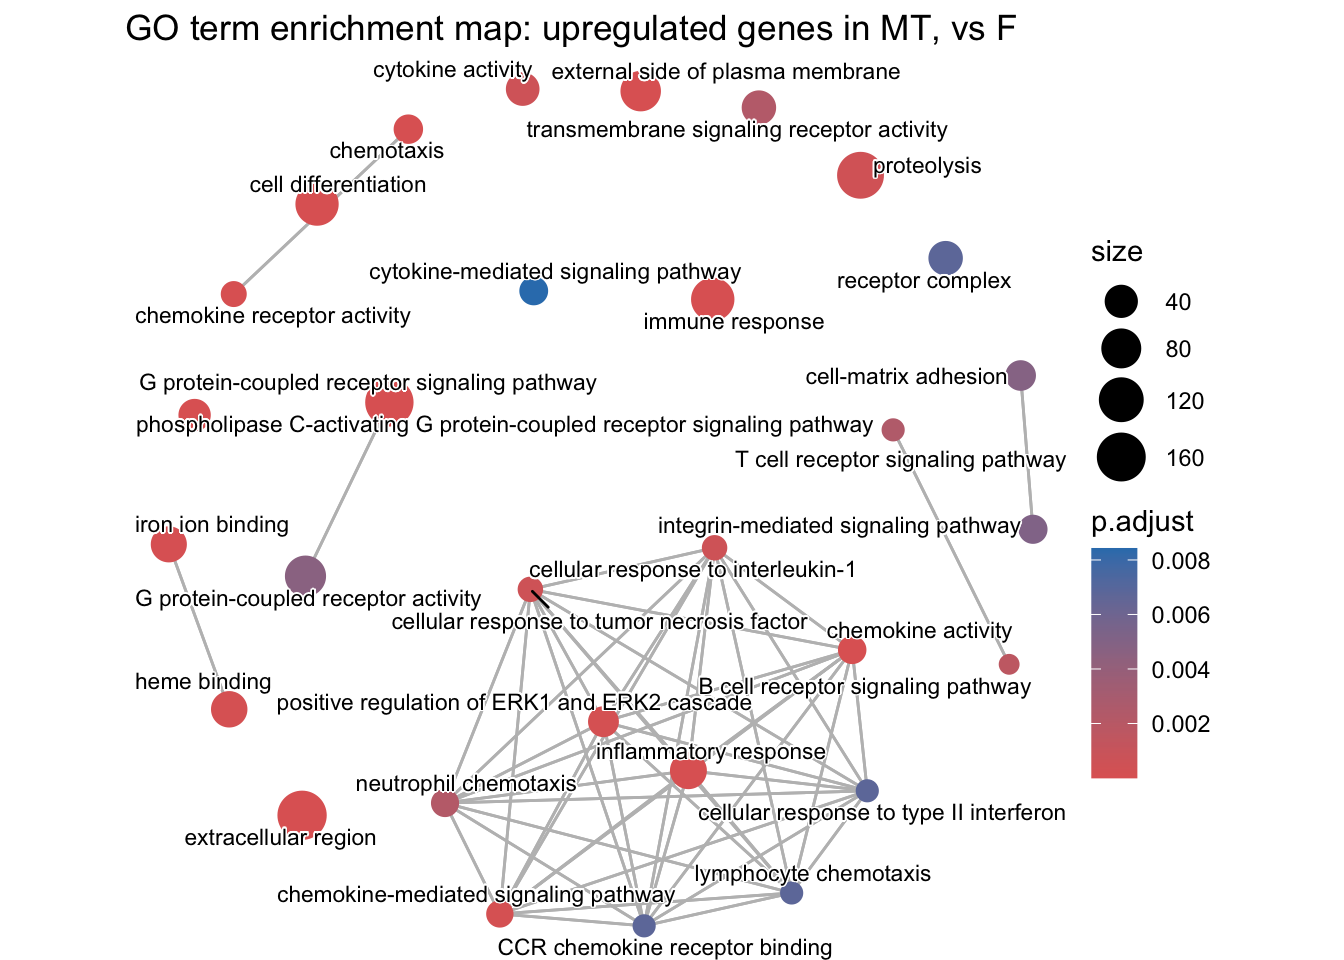
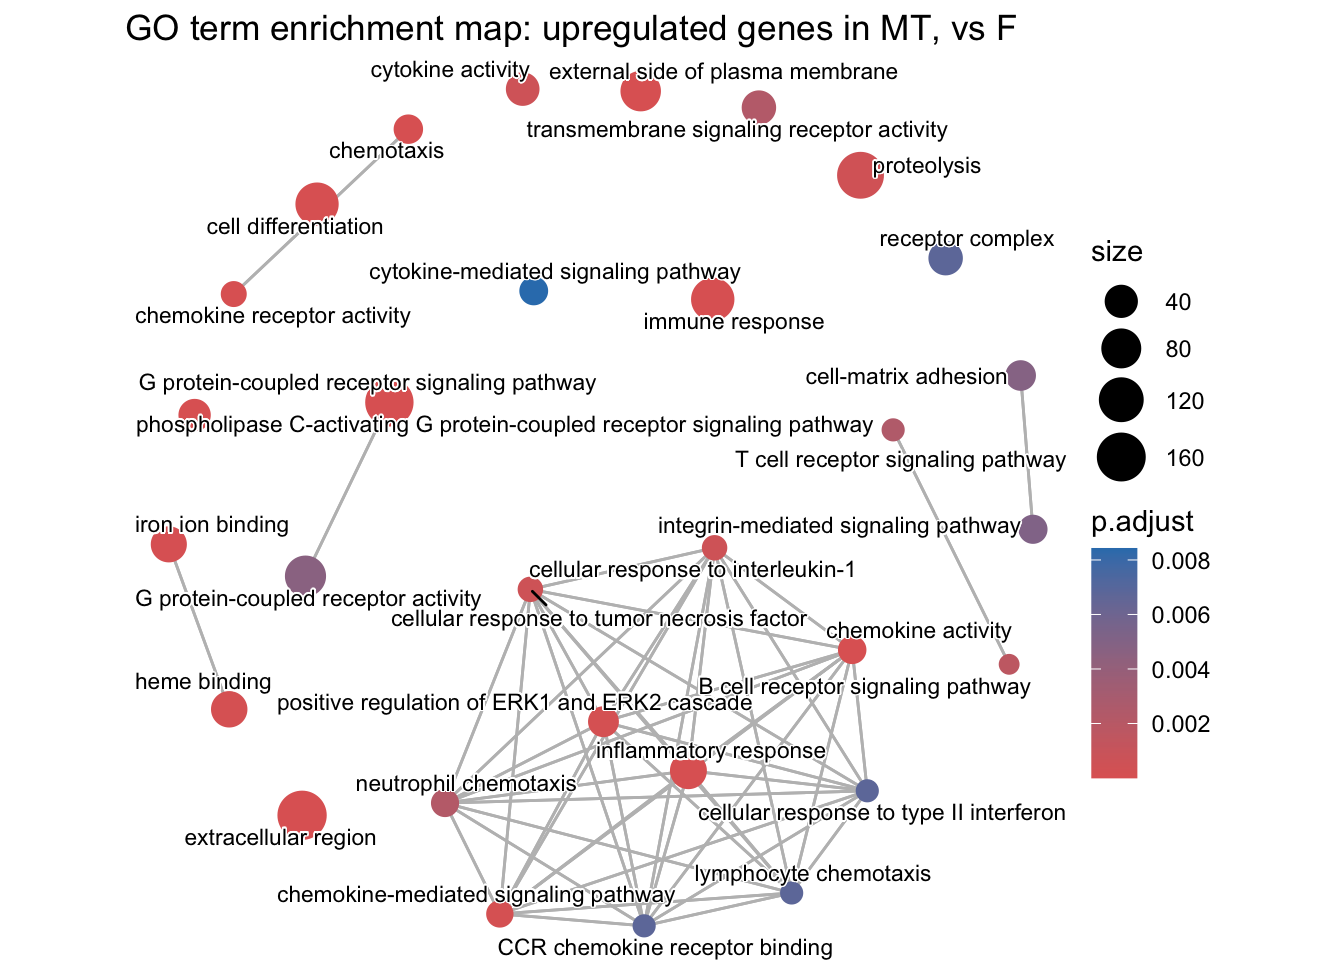
added org package link, minor wording

diff --git a/docs/mini-series-gene-ontology.html b/docs/mini-series-gene-ontology.html
@@ -316,14 +316,14 @@ pre > code.sourceCode > span > a:first-child::before { text-decoration: underlin
 
 <section id="mini-series-gene-ontology-analysis-for-non-model-organisms" class="level1">
 <h1>Mini series: Gene ontology analysis for non-model organisms</h1>
-<p>In this workshop, we will cover how to perform gene ontology (GO) analysis for non-model organisms. Specifically, we will run through GOseq analysis in R, focusing on how to perform this for organisms that <strong>are not</strong> in the supported organisms list in <code>goseq()</code> and don’t have an annotation package in Bioconductor.</p>
-<p>This is an extension on our RNA-seq workshop, which covers GOseq analysis using the supported organism <em>Saccharomyces cerevisiae</em> <a href="https://genomicsaotearoa.github.io/RNA-seq-data-analysis-workflow/episode_5.html">(RNAseq workshop link here)</a>.</p>
+<p>In this workshop, we will cover how to perform gene ontology (GO) analysis for non-model organisms. Specifically, we will run through GOseq analysis in R, focusing on how to perform this for organisms that <strong>are not</strong> in the supported organisms list in <code>goseq()</code> and don’t have an annotation package in Bioconductor. You can check <a href="https://bioconductor.org/packages/release/BiocViews.html#___OrgDb">if your research organism is listed here.</a> If not, this workshop might be for you.</p>
+<p>This is an extension on our <a href="https://genomicsaotearoa.github.io/RNA-seq-data-analysis-workflow/">RNA-seq Data Analysis workshop</a>, which covers GOseq analysis using the supported organism <em>Saccharomyces cerevisiae</em> in the lesson on Functional analysis.</p>
 <section id="prerequisites" class="level2">
 <h2 class="anchored" data-anchor-id="prerequisites">Prerequisites</h2>
 <ul>
-<li>Have attended our <a href="https://genomicsaotearoa.github.io/Introduction-to-R/">Introduction to R</a> workshop or have equivalent experience.<br>
+<li>Have attended our <a href="https://genomicsaotearoa.github.io/BioinformaticsTrainingProgramme/portfolio.html#intro-r">Introduction to R</a> workshop or have equivalent experience.<br>
 </li>
-<li>Have attended our <a href="https://genomicsaotearoa.github.io/RNA-seq-data-analysis-workflow/">RNA-seq Data Analysis</a> workshop, or have previous experience with an RNA-seq workflow.</li>
+<li>Have attended our <a href="https://genomicsaotearoa.github.io/BioinformaticsTrainingProgramme/portfolio.html#rnaseq">RNA-seq Data Analysis</a> workshop, or have previous experience with an RNA-seq workflow.</li>
 </ul>
 <section id="set-up" class="level3">
 <h3 class="anchored" data-anchor-id="set-up">Set-up</h3>
@@ -588,7 +588,7 @@ How do I get gene ontologies?
 <section id="gene-lengths" class="level4">
 <h4 class="anchored" data-anchor-id="gene-lengths">4. <strong>Gene lengths</strong></h4>
 <p>📌💡 Make either a <strong>dataframe</strong> or <strong>tab delimited text file</strong> with two columns that maps gene identifiers to gene lengths (in bp)</p>
-<p>The gene identifier should match the identifiers used in the DGE list and background genes. The gene length is in base pairs (bp) and should be whole numbers (no decimal places). You should have an entry for every gene in your genome (or more specifically, every gene for which reads can be mapped in your RNA-seq alignment <em>i.e.,</em> every gene represented in your count matrix). Whether you have a tab delimited text file or a dataframe in R, it should look something like this:</p>
+<p>The gene identifier should match the identifiers used in the DGE list and background genes. The gene length is in base pairs (bp) and should be whole numbers (no decimal places). You should have an entry for every gene in your genome (or more specifically, every gene for which reads could be mapped to in your RNA-seq alignment <em>i.e.,</em> every gene represented in your count matrix). Whether you have a tab delimited text file or a dataframe in R, it should look something like this:</p>
 <pre><code>GeneID          Length
 LOC117820358    822
 LOC117813751    23247
